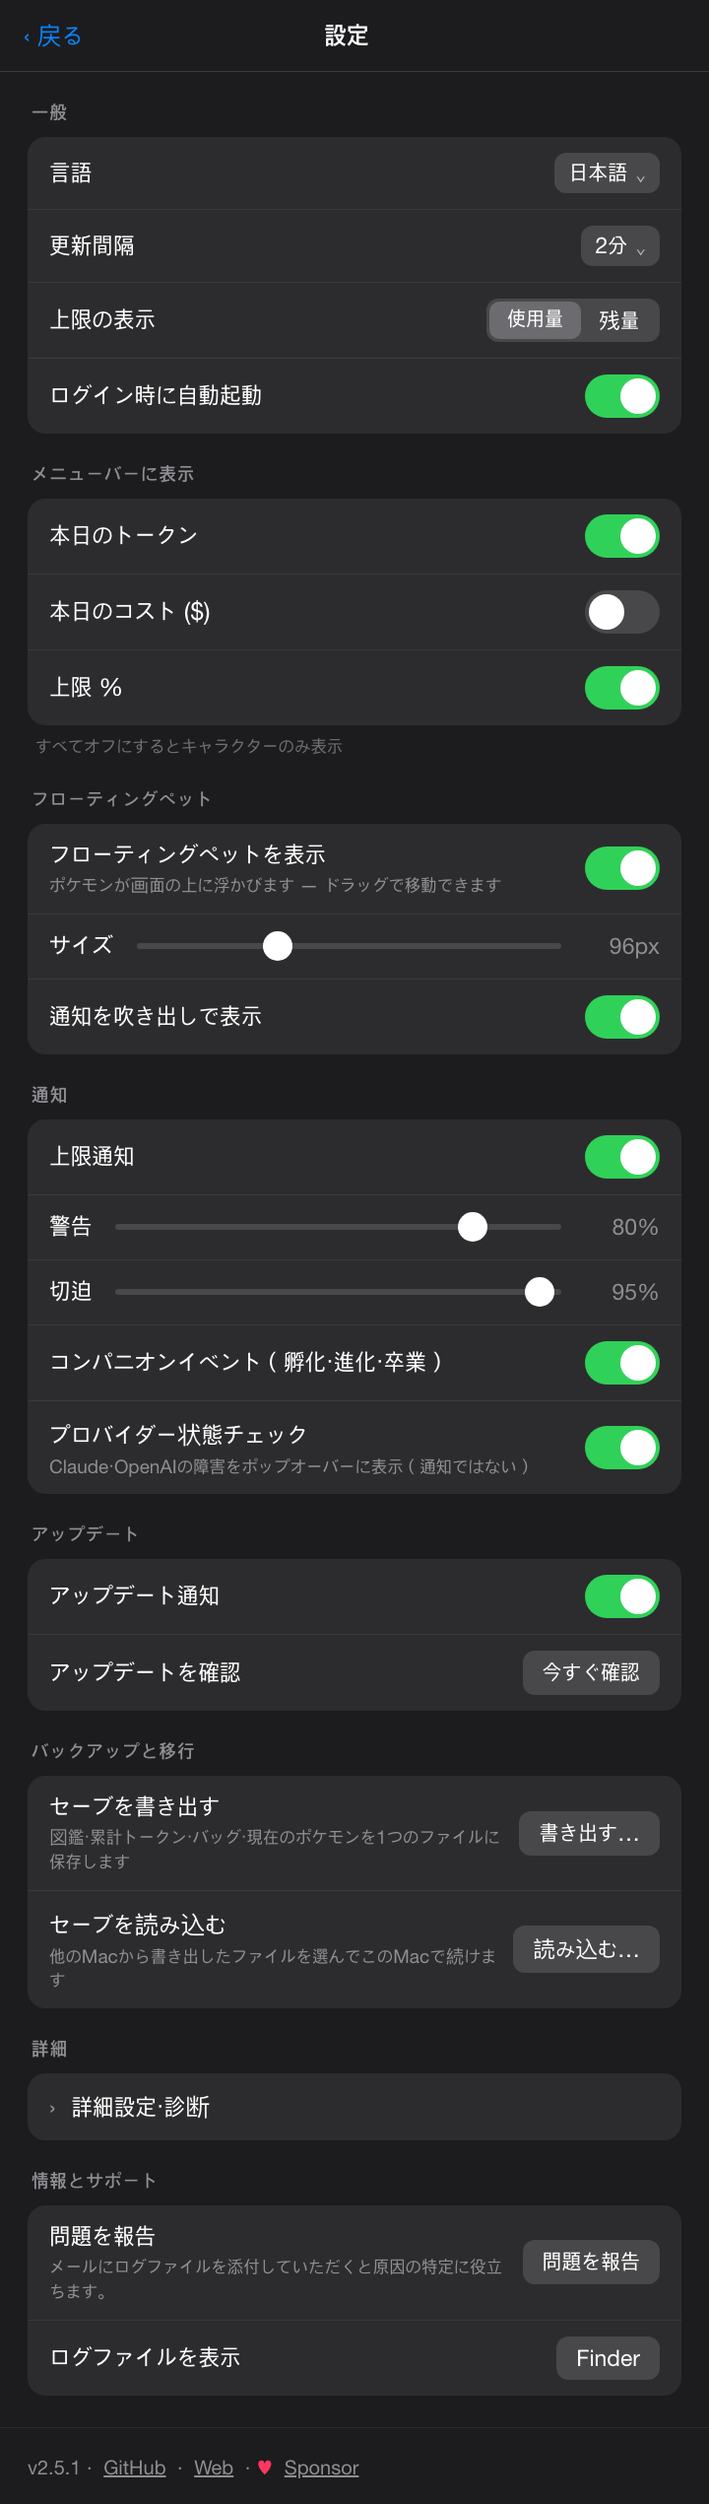
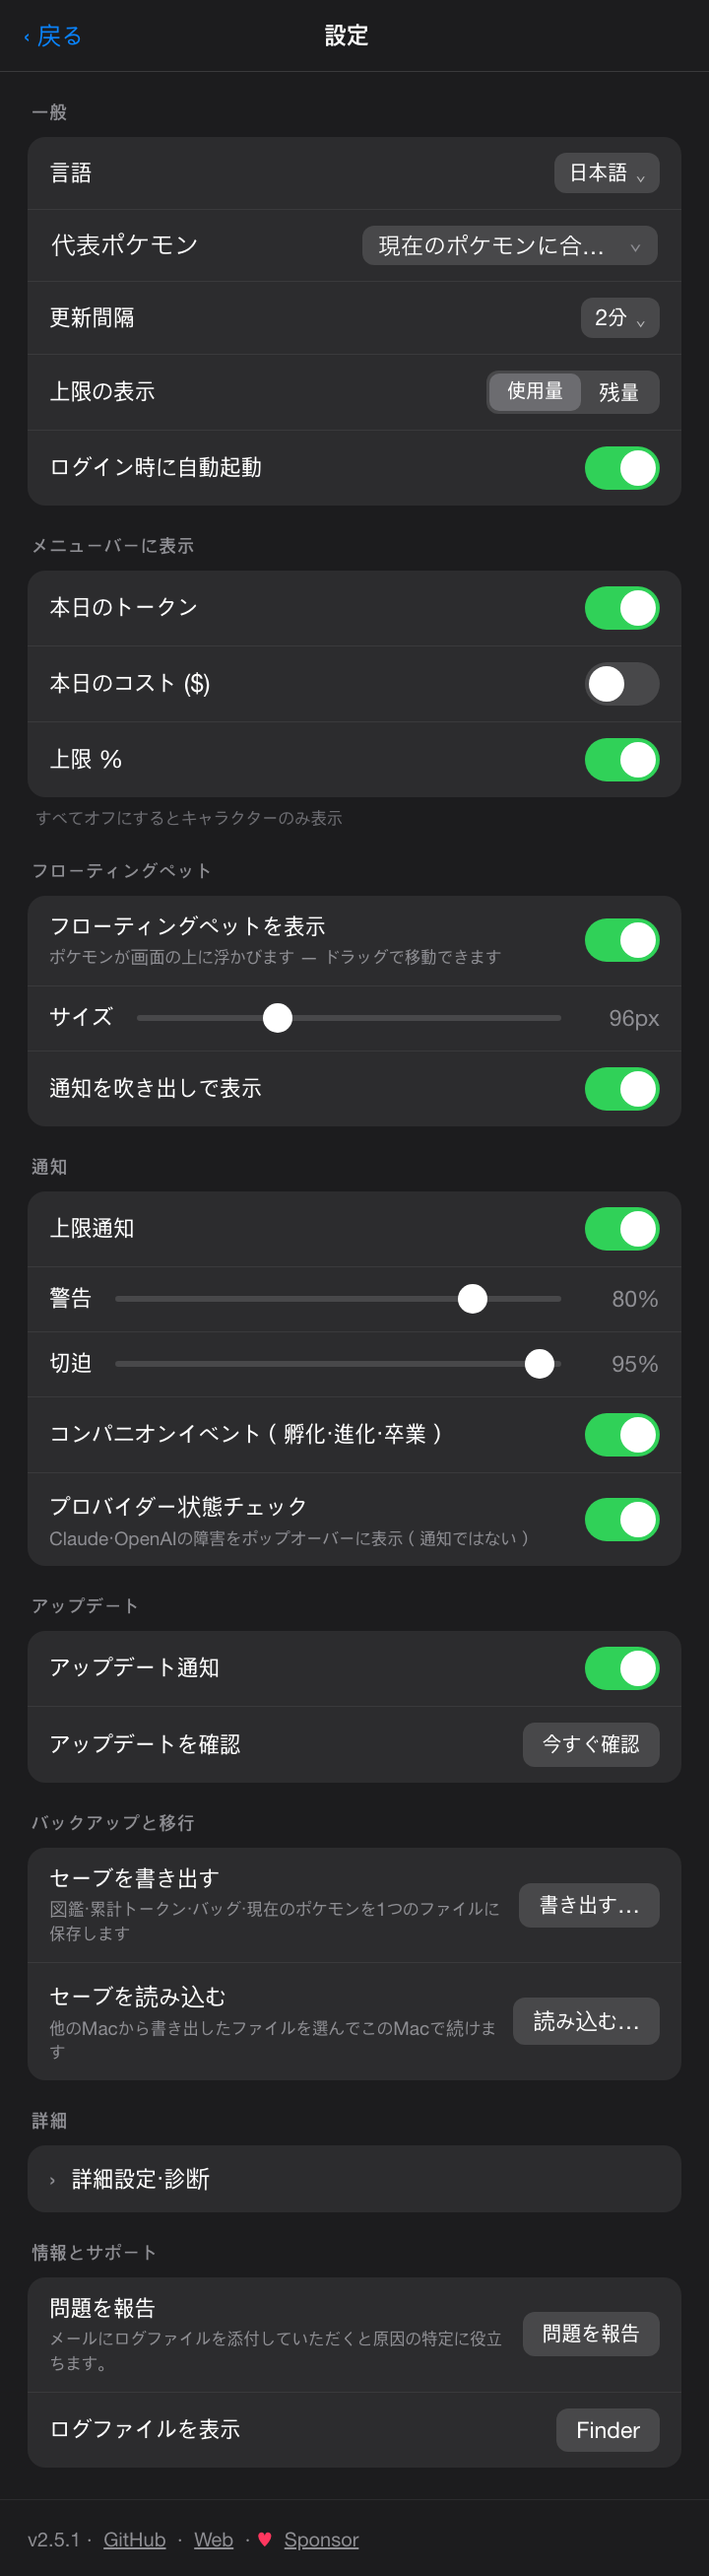
docs: cover the representative pin, Antigravity limits, and scan folders (en/ko/ja) (#223)
Three UI features have shipped since v2.5.1 without an image: pinning a
representative Pokémon (#158), official rate limits for Antigravity (#210), and
per-provider additional scan folders (#187). Per-provider scan folders were not
mentioned in the READMEs at all.

Adds two screenshots per language for the Antigravity limits panel and the
Advanced scan-folder controls, and inserts the Representative Pokémon row into
the existing settings shots rather than redrawing them, so every pixel outside
the inserted row is byte-identical to the previous asset.

diff --git a/README.ja.md b/README.ja.md
@@ -75,7 +75,7 @@ PokeTokenBar は、あなたがすでに使っている AI コーディングト
 <td width="45%" align="center"><img src="assets/settings-ja.png" width="300" alt="設定"></td>
 <td width="55%" valign="middle">
 <h3>設定はお好みで</h3>
-メニューバー表示項目、更新間隔（1–15分／手動）、ログイン時に起動、上限セクションだけを隠す Keychain オフ、警告／危険の閾値つき上限通知、パートナーのイベント通知。<b>韓国語／英語／日本語</b>の UI とポケモン名を完備。
+メニューバー表示項目、更新間隔（1–15分／手動）、ログイン時に起動、上限セクションだけを隠す Keychain オフ、警告／危険の閾値つき上限通知、パートナーのイベント通知。<b>韓国語／英語／日本語／スペイン語／フランス語／ポルトガル語</b>の UI とポケモン名を完備。
 </td>
 </tr>
 <tr>
@@ -92,6 +92,20 @@ PokeTokenBar は、あなたがすでに使っている AI コーディングト
 これまで使ったトークンがそのまま通貨です — 新しい <b>ショップ</b> タブで <b>ふしぎなアメ</b> で育てたり、<b>ミント</b> でせいかくを引き直したり、<b>光るお守り</b> で色違い確率を永続的に上げたり、タマゴを買っていまのパートナーを手放してやり直したりできます。タマゴは3種類 — 通常の <b>ポケモンのタマゴ</b>、アンコモン以上が確定で孵る <b>アンコモンのタマゴ</b>、レア以上が確定で孵る <b>レアのタマゴ</b>。等級付きのタマゴにも伝説はそのまま混ざっているので、確定の孵化にも驚きが残ります。
 </td>
 </tr>
+<tr>
+<td width="55%" valign="middle">
+<h3>📊 公式の上限、Antigravity にも</h3>
+Antigravity 2.0 と IDE が推定値ではなく実際のクォータを返します。Gemini モデル群と Claude &amp; GPT モデル群がそれぞれ <b>5時間</b>・<b>週間</b> のバケットとリセットのカウントダウンを持ち、Claude Code・Codex と並んで表示されます。バックグラウンドで静かに読むので Keychain のプロンプトは出ず、セッションも自動で更新されます。
+</td>
+<td width="45%" align="center"><img src="assets/screenshot-antigravity-limits-ja.png" width="300" alt="Antigravity の公式上限 — モデル群ごとの5時間・週間バケット"></td>
+</tr>
+<tr>
+<td width="45%" align="center"><img src="assets/screenshot-scan-folders-ja.png" width="300" alt="設定 → 詳細の追加スキャンフォルダ"></td>
+<td width="55%" valign="middle">
+<h3>📁 ログが既定の場所にないときは指定できます</h3>
+ツールがセッションを既定のパスの外に置く場合は <b>設定 → 詳細</b> で独自のルートを追加してください — カンマ・改行区切り、<code>*</code> ワイルドカード、いま何個のフォルダが一致しているかをその場で表示します。プロバイダーごとにリストが分かれているので、あるツールのフォルダが別のツールのパーサーに渡ることはなく、追加したパスは既定のパスを置き換えるのではなく加算されます。
+</td>
+</tr>
 </table>
 
 ## そのほかにも
@@ -99,6 +113,7 @@ PokeTokenBar は、あなたがすでに使っている AI コーディングト
 - **インタラクティブなフローティングペット** — ホバーで今日の使用量、クリックでメイン画面、右クリックでメニュー、上限アラートは吹き出しで表示。
 - **サービス別タブ** — Claude Code・Codex・Gemini CLI・Antigravity・OpenCode・Hermes Agent・Cursor・Grok CLI・Copilot CLI・Kiro CLI・Pi Agent のうち2つ以上が検出されると、小さなタブでサービス別の詳細を切替（今日の合計は合算のまま）。
 - **公式の上限** — Claude・Codex・Antigravity の5時間／週間使用率とリセットのカウントダウンを、今日の数字のすぐ下に。
+- **追加スキャンフォルダ** — 既定のパスの外にあるログのために、プロバイダーごとにスキャンルートを追加（設定 → 詳細）。
 - **消費予測** — 現在の5時間ウィンドウが100%に達する時刻を予測。
 - **アプリ内アップデート** — ワンクリックの更新確認、設定に現在のバージョンを表示。
 

diff --git a/README.md b/README.md
@@ -75,7 +75,7 @@ The <b>Pokédex</b> folds every species you've owned into one cell — 24 per pa
 <td width="45%" align="center"><img src="assets/settings.png" width="300" alt="Settings"></td>
 <td width="55%" valign="middle">
 <h3>Tune it your way</h3>
-Menu-bar items, refresh interval (1–15 min or manual), launch at login, a Keychain opt-out that just hides the limits section, limit alerts with warning/critical thresholds, and companion event notifications. Full <b>KO / EN / JA</b> UI and Pokémon names.
+Menu-bar items, refresh interval (1–15 min or manual), launch at login, a Keychain opt-out that just hides the limits section, limit alerts with warning/critical thresholds, and companion event notifications. Full <b>KO / EN / JA / ES / FR / PT</b> UI and Pokémon names.
 </td>
 </tr>
 <tr>
@@ -92,6 +92,20 @@ Max out a 5-hour or weekly usage limit and you're handed a <b>Rare Candy</b> —
 The tokens you've already used are your currency. Spend them in the new <b>Shop</b> tab on <b>Rare Candy</b> to grow your current Pokémon, a <b>Mint</b> to re-roll its nature, a <b>Shiny Charm</b> that permanently raises your shiny hatch odds, or an egg to send off your companion and start over. Eggs come in three grades — a plain <b>Pokémon Egg</b>, an <b>Uncommon Egg</b> that always hatches Uncommon or better, and a <b>Rare Egg</b> that always hatches Rare or better. Legendaries stay in the pool for both graded eggs, so a guaranteed hatch can still surprise you.
 </td>
 </tr>
+<tr>
+<td width="55%" valign="middle">
+<h3>📊 Official limits, now for Antigravity too</h3>
+Antigravity 2.0 and the IDE report real quota, not an estimate. Gemini models and Claude &amp; GPT models each get their own <b>5-hour</b> and <b>weekly</b> buckets with reset countdowns, alongside Claude Code and Codex. Read quietly in the background — no Keychain prompt, and the session refreshes itself.
+</td>
+<td width="45%" align="center"><img src="assets/screenshot-antigravity-limits.png" width="300" alt="Antigravity official limits — 5-hour and weekly buckets per model group"></td>
+</tr>
+<tr>
+<td width="45%" align="center"><img src="assets/screenshot-scan-folders.png" width="300" alt="Additional scan folders in Settings → Advanced"></td>
+<td width="55%" valign="middle">
+<h3>📁 Logs somewhere unusual? Point at them</h3>
+If a tool keeps its sessions outside the built-in paths, add your own roots under <b>Settings → Advanced</b> — comma or newline separated, <code>*</code> wildcards, with a live count of how many extra folders currently match. Every provider keeps its own list, so one tool's folders are never handed to another tool's parser, and your custom roots are added to the built-in ones rather than replacing them.
+</td>
+</tr>
 </table>
 
 ## Also in the box
@@ -99,6 +113,7 @@ The tokens you've already used are your currency. Spend them in the new <b>Shop<
 - **Interactive floating pet** — hover for today's usage, click to open the main window, right-click for a menu, and show limit alerts as speech bubbles.
 - **Per-service tabs** — when two or more of Claude Code, Codex, Gemini CLI, Antigravity, OpenCode, Hermes Agent, Cursor, Grok CLI, Copilot CLI, Kiro CLI, and Pi Agent are detected, compact tabs switch between them; today's total stays combined.
 - **Official limits** — Claude, Codex & Antigravity 5-hour / weekly utilization with reset countdowns, right under today's numbers.
+- **Additional scan folders** — per-provider extra scan roots for logs kept outside the built-in paths (Settings → Advanced).
 - **Burn-rate forecast** — projects when the current 5h window hits 100%.
 - **In-app updates** — one-click update check; current version shown in Settings.
 
